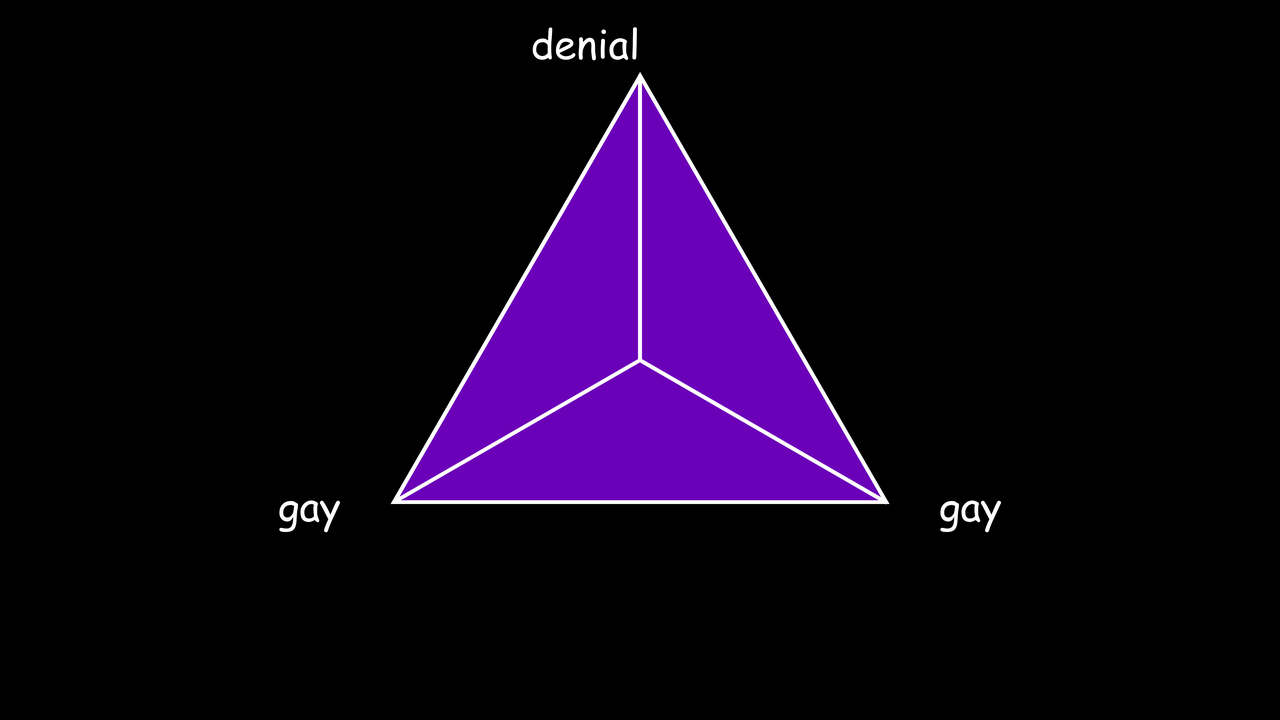
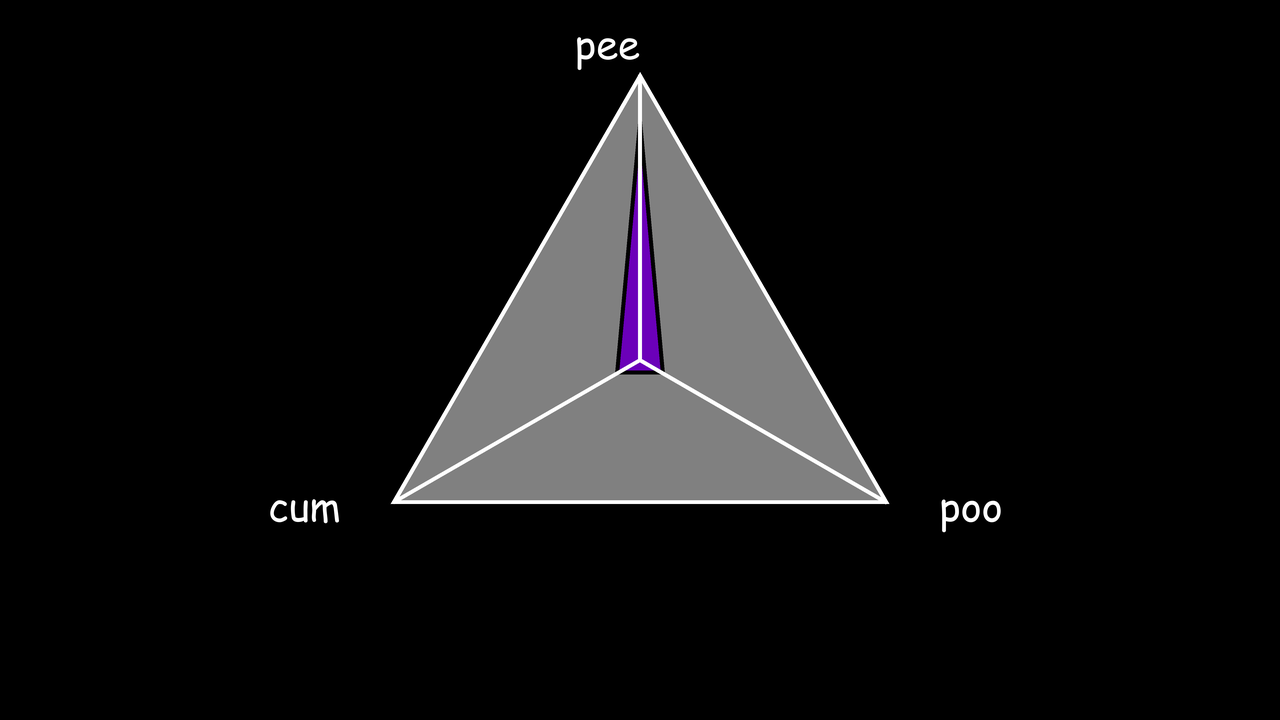
gumbus3 (works now)

diff --git a/main.py b/main.py
@@ -319,9 +319,8 @@ async def twin(interaction: discord.Interaction):
 @app_commands.allowed_contexts(guilds=True, dms=True, private_channels=True)
 @app_commands.user_install()
 async def stats(interaction: discord.Interaction, n: str):
-    rawList = n.split(n)
-
-    if len(rawList % 2 != 0):
+    rawList = n.split(",")
+    if len(rawList) % 2 != 0:
         await interaction.response.send_message(":potato: list of inputs must be pairs of values, in other words, list must have even length")
     try:
         param = []
@@ -329,7 +328,6 @@ async def stats(interaction: discord.Interaction, n: str):
             param+=[(str(rawList[2*i]), int(rawList[2*i+1]))]
     except ValueError:
         await interaction.response.send_message(":crying: one of your scores isn't an integer")
-
     color = (107, 0, 185)
 
     scale = 4 # needed for antialiasing
@@ -404,7 +402,7 @@ async def stats(interaction: discord.Interaction, n: str):
             await interaction.response.defer()
             await asyncio.sleep(sleepTimer)
             await interaction.followup.send(file=file)
-            log("img.png sent sucessfully")
+            log("stats image sent sucessfully")
     except Exception as e:
         await interaction.response.send_message("Something went wrong!", ephemeral=True)
         log(f"Error sending stats image: {e}")
